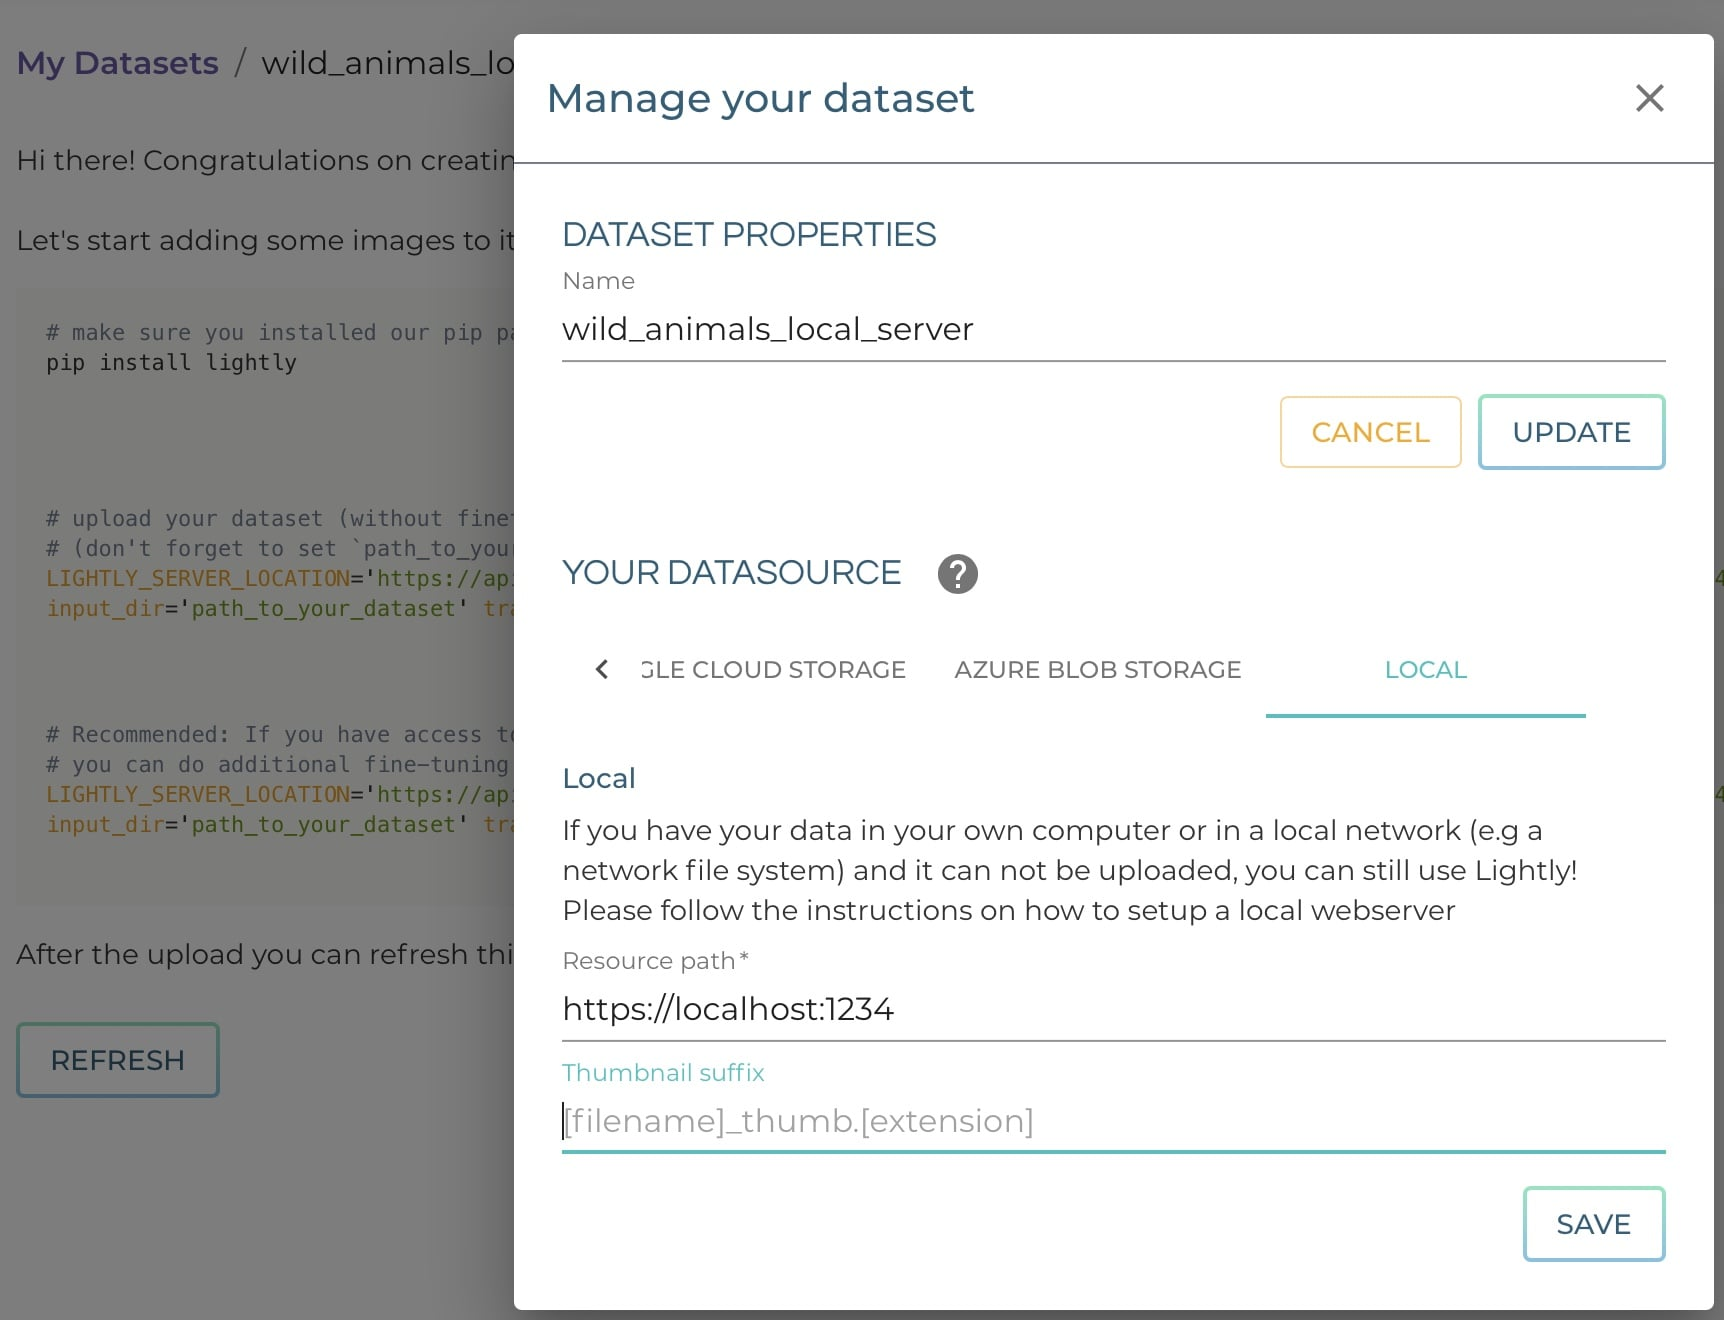
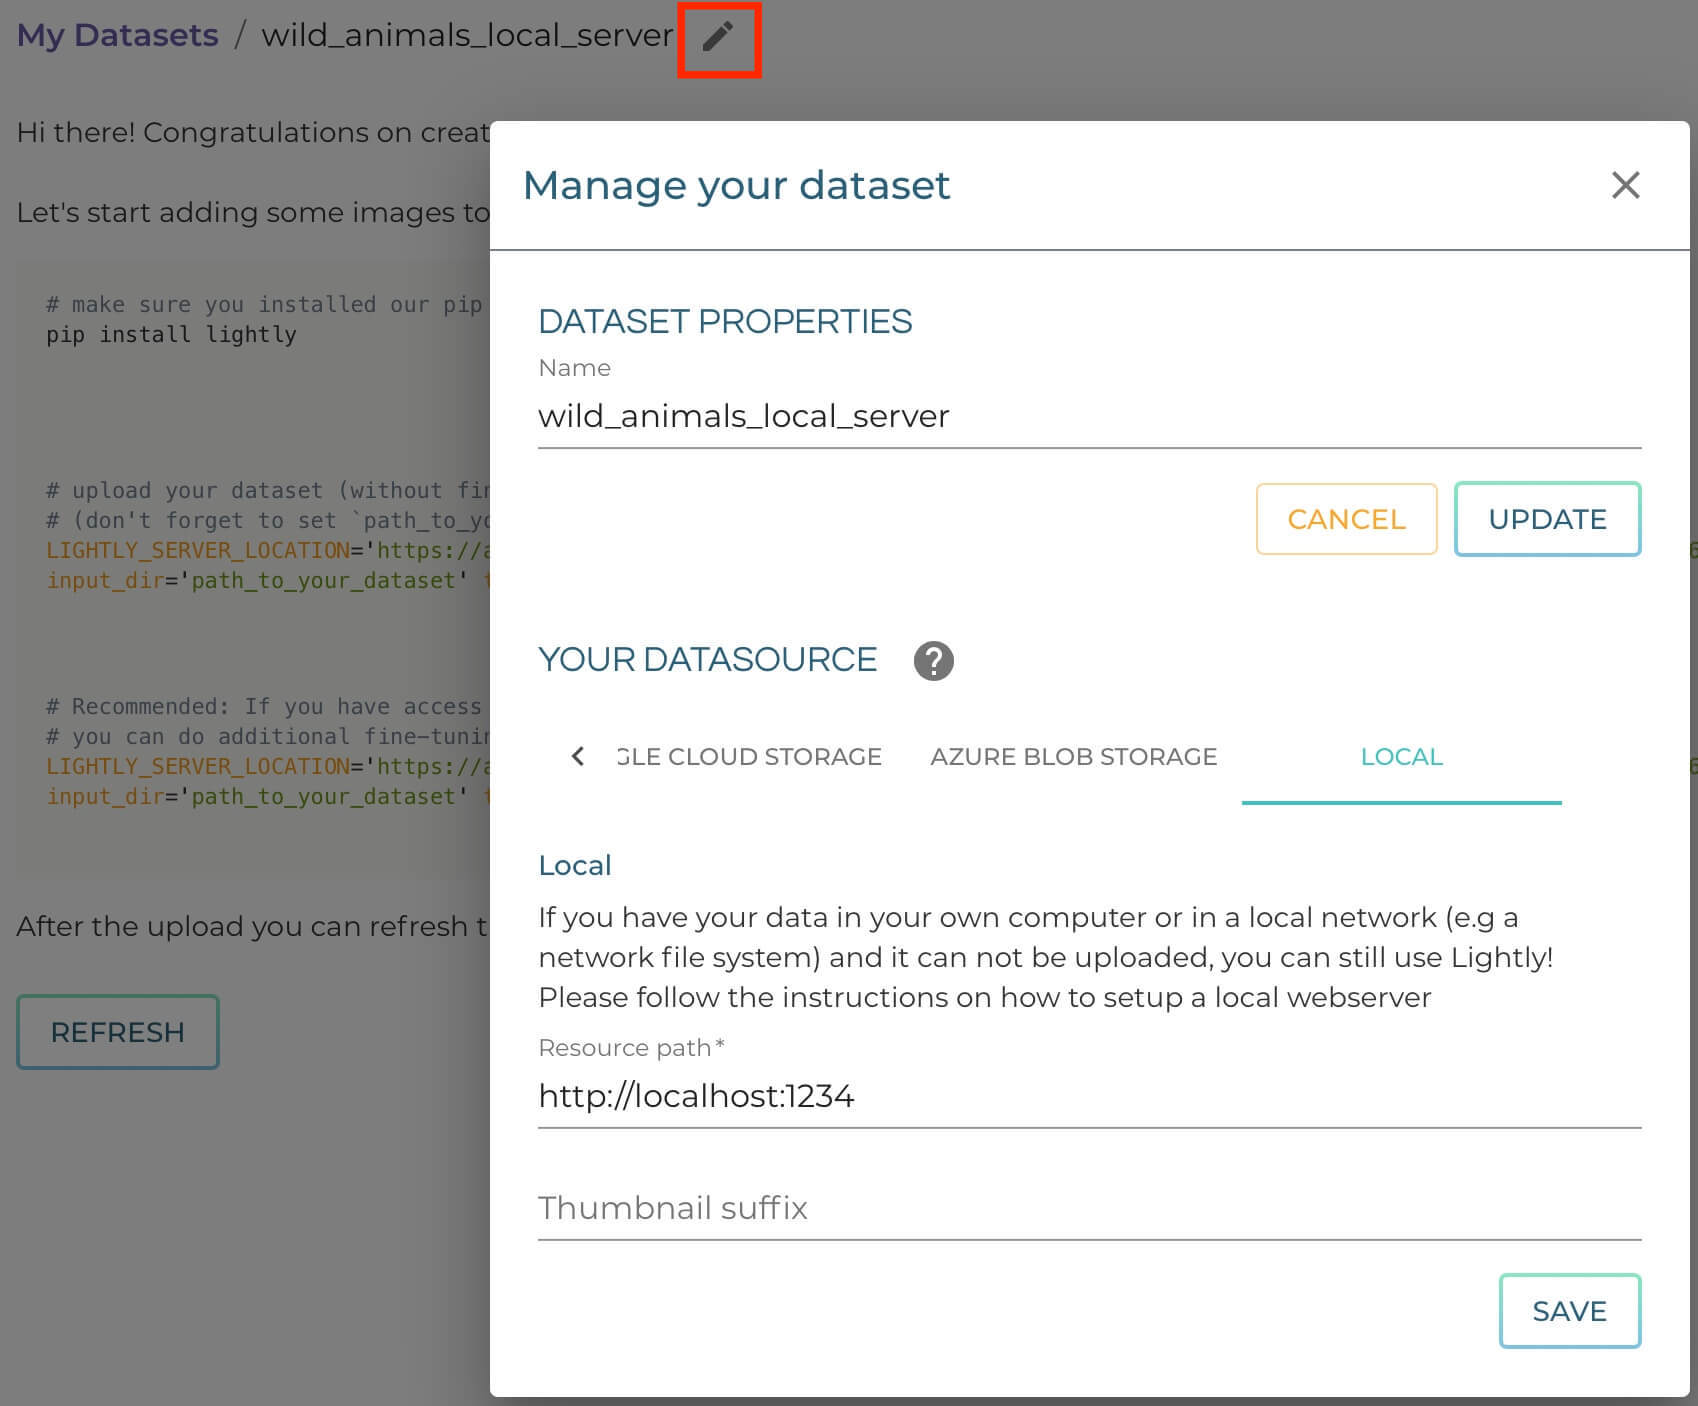
adressed comments by Guarin

diff --git a/docs/source/getting_started/dataset_creation/dataset_creation_local_server.rst b/docs/source/getting_started/dataset_creation/dataset_creation_local_server.rst
@@ -5,7 +5,7 @@ Create a dataset with a local file server
 
 You can configure a dataset in the Lightly Platform that streams the images
 from your local file system. This makes the creation of a dataset much faster,
-as no upload of images and thumbnails is needd.
+as no upload of images and thumbnails is needed.
 Let's assume that your dataset is locally at `/projects/animals`.
 
 
@@ -18,7 +18,7 @@ From within this directory, create a local http server for the files:
 .. code-block:: bash
 
     cd /projects/animals
-    http://localhost:1234/
+    python -m http.server 1234
 
 If the port 1234 is used, try another. You must keep the file server
 open while using the Lightly Platform.
@@ -32,11 +32,11 @@ Create and configure a dataset
 
 .. figure:: ./images_local_server/screenshot_local_server_create_dataset.jpg
     :align: center
-    :alt: Lightly S3 connection config
+    :alt: Lightly local connection config
     :width: 60%
 
-Choose the resource path `https://localhost:1234` or adapt the port if needed.
-Set the filename suffix to empty.
+Choose the resource path `http://localhost:1234` or adapt the port if needed.
+Set the thumbnail suffix to empty to use the full images instead of thumbnails.
 
 
 Create the dataset and upload embeddings and metadata.
@@ -45,6 +45,8 @@ Create the dataset and upload embeddings and metadata.
 For creating the dataset and uploading embeddings and metadata to it, you need
 to install the :ref:`lightly-command-line-tool`, e.g. via pip.
 Then use one of the commands proposed in the dataset creation wizard.
+Use a new terminal for this, so that your command for the hosting the http
+server can still run.
 
 .. code-block:: bash
 
